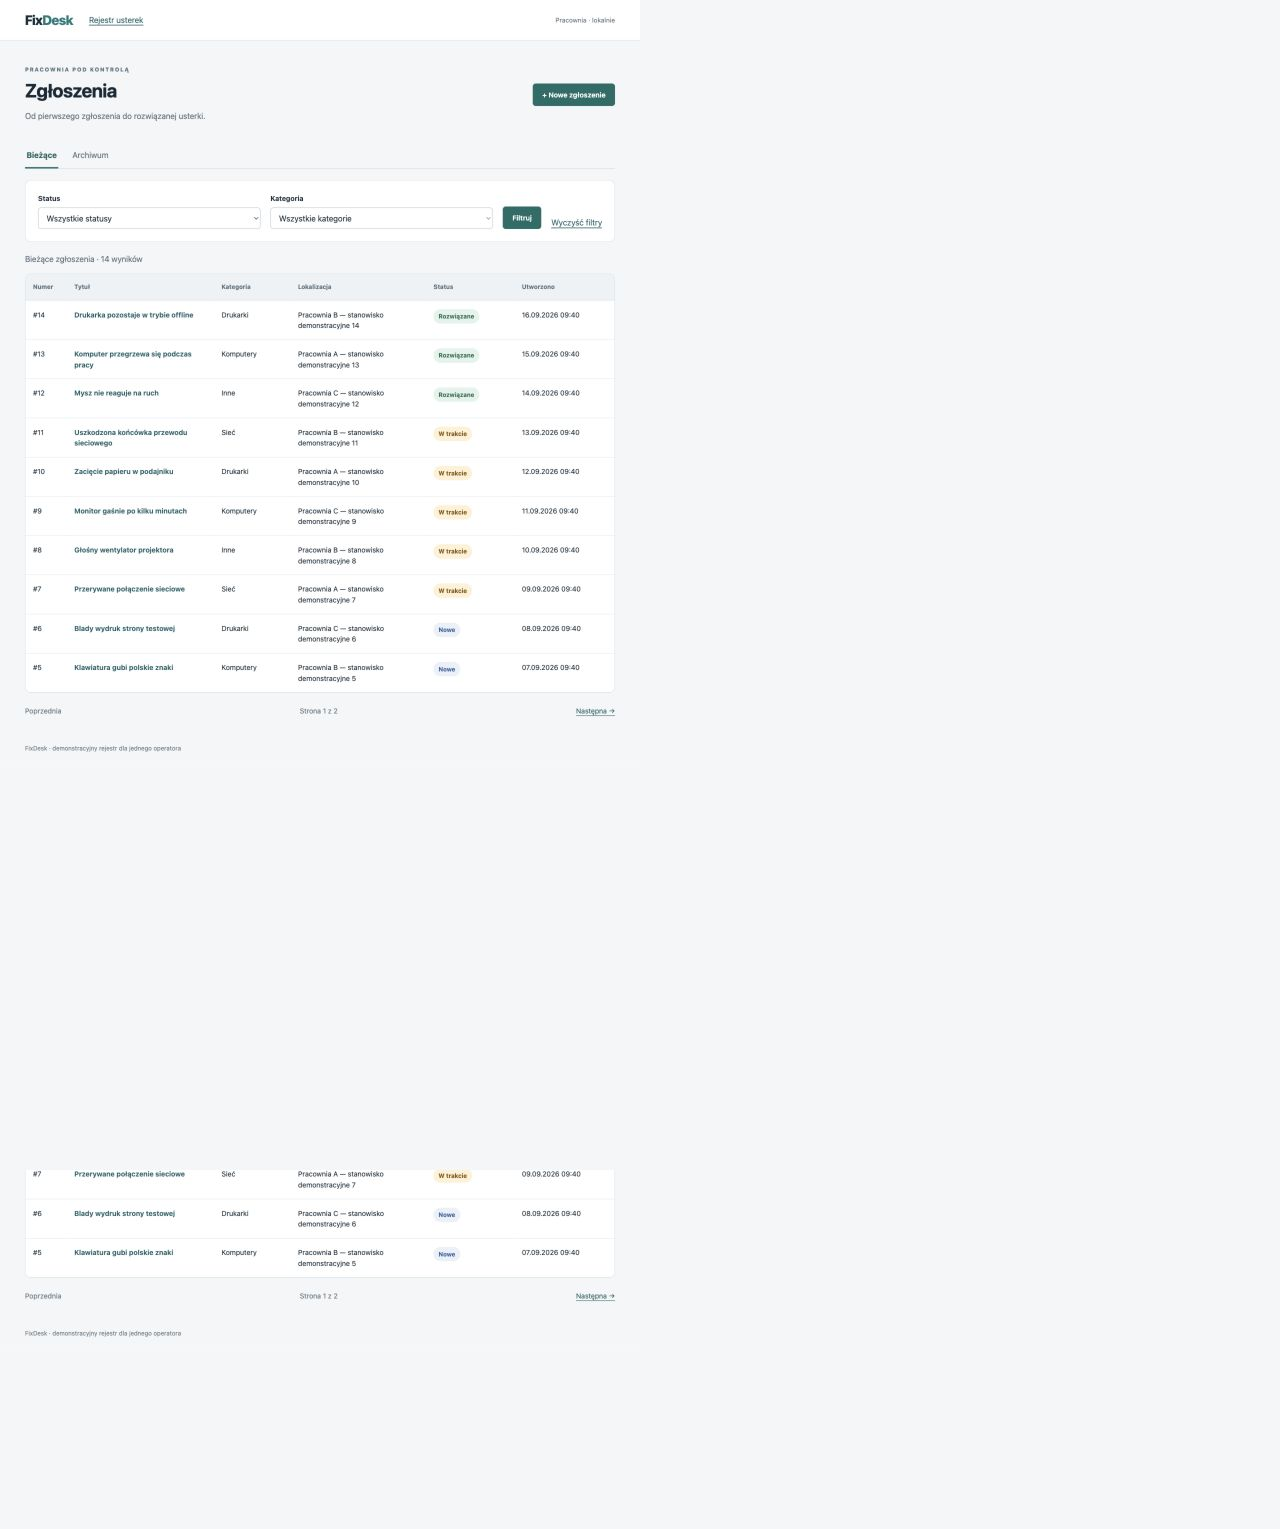
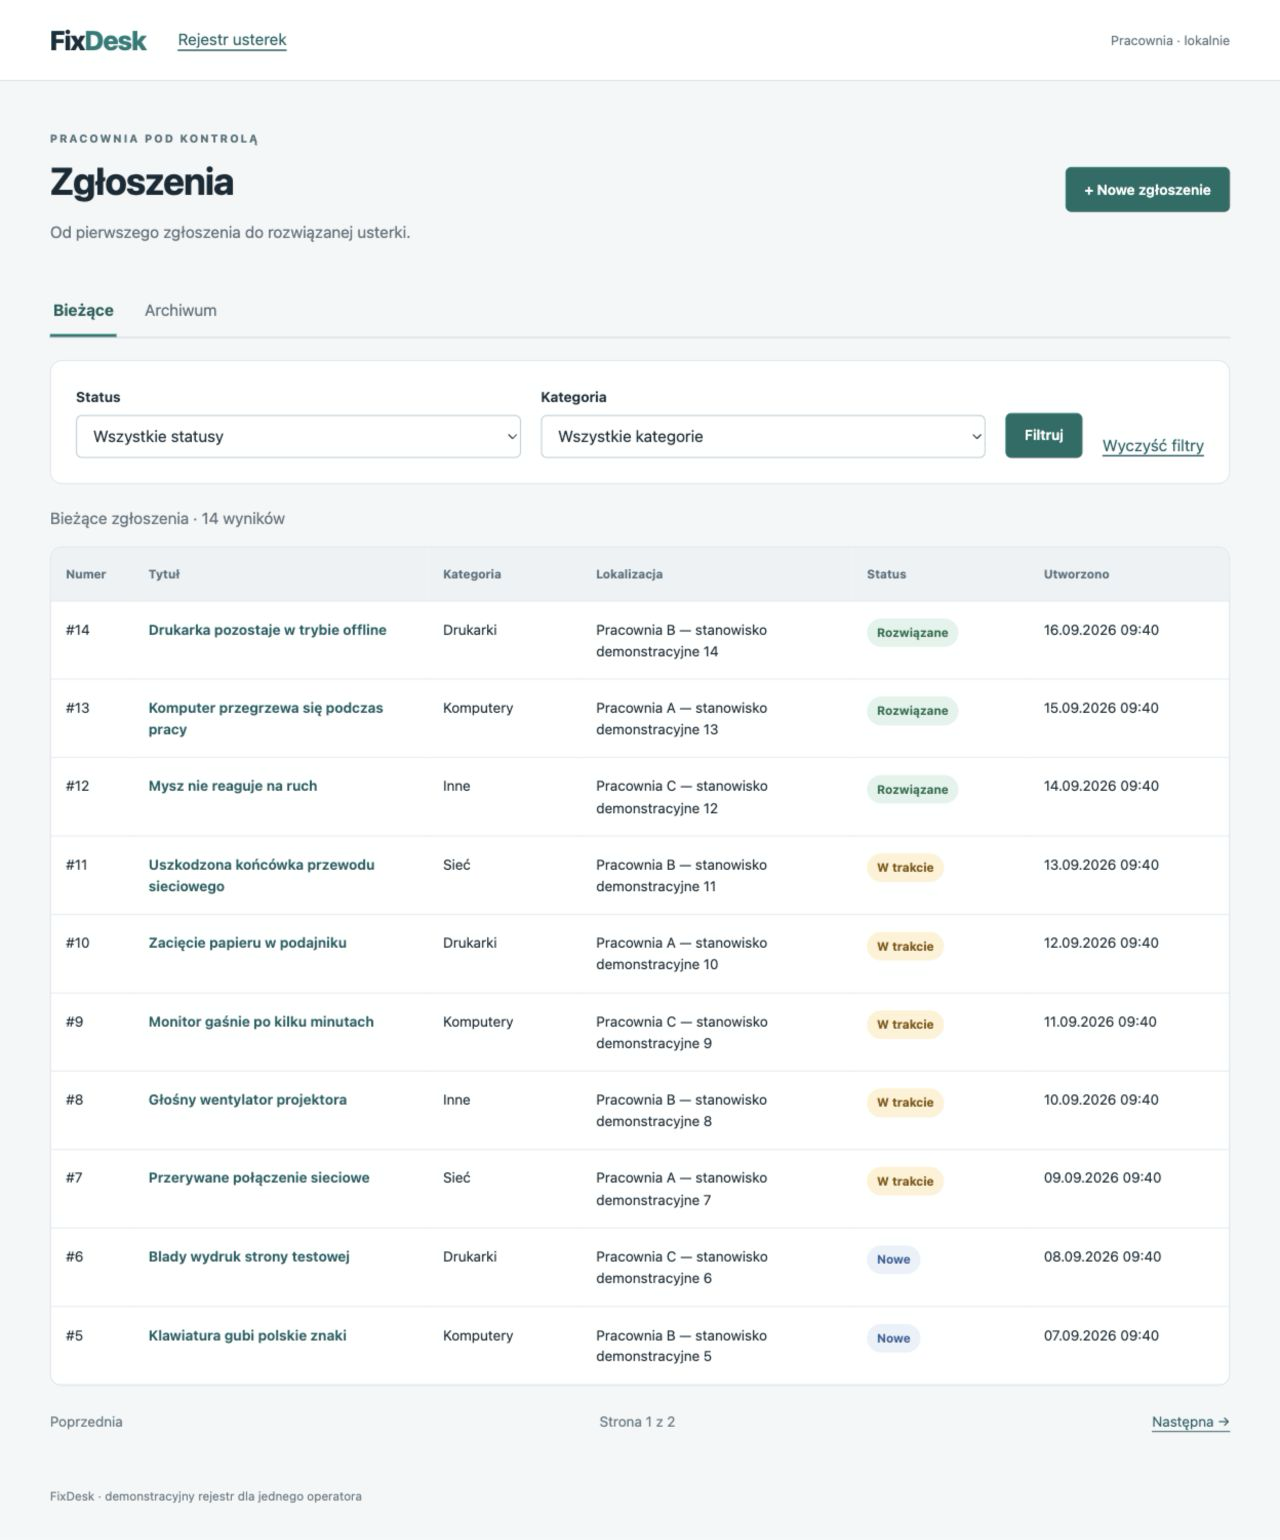
Clean up project documentation and fix screenshots

diff --git a/README.md b/README.md
@@ -1,40 +1,46 @@
 # FixDesk
 
-Niewielki, lokalny rejestr usterek sprzętu dla jednego operatora pracowni komputerowej. Projekt demonstracyjny do nauki PHP/Laravela i rozmowy rekrutacyjnej. Temat i zakres są decyzją autora, nie wymaganiem Fingoweb.
+Lokalny rejestr usterek sprzętu dla jednego operatora pracowni komputerowej.
 
-Proces: **Nowe → W trakcie → Rozwiązane → Archiwizacja**. Rozwiązanie wymaga opisu; archiwizacja zachowuje rekord i umożliwia jego odczyt.
+Proces: **Nowe → W trakcie → Rozwiązane → Archiwizacja**. Rozwiązanie wymaga opisu naprawy. Archiwizacja zachowuje zgłoszenie i udostępnia je do odczytu.
 
-## Zakres
+## Funkcje i zrzuty ekranu
 
-Dodawanie, odczyt, edycja otwartych zgłoszeń, obsługa procesu, dwie listy (bieżące i archiwum), filtry statusu i kategorii połączone AND, paginacja po 10 rekordów, walidacja i polskie komunikaty. Cztery kategorie oraz 16 fikcyjnych zgłoszeń: 6 nowych, 5 w trakcie, 3 rozwiązane bieżące, 2 archiwalne.
+- Dodawanie zgłoszeń, podgląd szczegółów i edycja otwartych zgłoszeń.
+- Rozpoczynanie obsługi, zapisywanie rozwiązania i archiwizacja.
+- Lista bieżąca i archiwum, łączne filtrowanie po statusie i kategorii oraz paginacja po 10 rekordów.
+- Walidacja formularzy i komunikaty po polsku; daty wyświetlane w strefie Europe/Warsaw.
+- Dane demonstracyjne: 4 kategorie i 16 fikcyjnych zgłoszeń, w tym 2 archiwalne.
 
-**Aplikacja lokalna, demonstracyjna, dla jednego operatora. Nie ma uwierzytelniania ani kontroli dostępu między użytkownikami. Nie udostępniać publicznie w tej postaci.** Nie ma usuwania, cofania statusów, przywracania, historii zmian, zarządzania kategoriami ani API. Nie deklaruje bezpiecznej równoczesnej pracy wielu operatorów.
+Lista zgłoszeń:
 
-## Wersje i wymagania
+![Lista zgłoszeń z filtrami i paginacją](docs/screenshots/lista.png)
 
-Sprawdzone: PHP **8.4.25**, Laravel **13.33.0**, MySQL Community **8.4.11**, Composer **2.10.3**, PHPUnit **12.5.35**. `composer.lock` przypina zależności. Projekt wymaga PHP 8.4.x; nie uruchamiaj go domyślnym PHP 8.5 z Homebrew.
+Szczegóły rozwiązanego zgłoszenia:
 
-Rozszerzenia PHP: ctype, curl, dom, fileinfo, filter, hash, mbstring, openssl, pcre, PDO, pdo_mysql, session, tokenizer, xml, xmlwriter; iconv i zip są zalecane. `composer check-platform-reqs` sprawdza wymagania zainstalowanych pakietów. Wymagane zapisywalne `storage/` i `bootstrap/cache/`.
+![Rozwiązane zgłoszenie z opisem usterki i naprawy](docs/screenshots/rozwiazane.png)
 
-Interfejs: Blade + własny `public/css/app.css`, systemowe fonty. **Bez Node.js, npm, Vite, CDN, workera i zewnętrznych usług podczas używania aplikacji.** Sieć jest potrzebna do pierwszego pobrania zależności.
+## Technologie i wymagania
 
-Zgodność stosu: [Laravel 13 — wymagania](https://laravel.com/framework/docs/releases), [MySQL 8.4 LTS](https://dev.mysql.com/doc/refman/8.4/en/mysql-releases.html).
+PHP **8.4.x** (ograniczenie `~8.4.0` w `composer.json`), Composer **2** i MySQL **8.4**. `composer.lock` przypina Laravel **13.33.0** oraz PHPUnit **12.5.35**. Interfejs korzysta z Blade, własnego CSS i systemowych fontów; nie wymaga Node.js ani kompilacji frontendu.
+
+Rozszerzenia PHP: ctype, curl, dom, fileinfo, filter, hash, mbstring, openssl, pcre, PDO, pdo_mysql, session, tokenizer, xml i xmlwriter; iconv i zip są zalecane. Wymagania pakietów sprawdza `composer check-platform-reqs`. Katalogi `storage/` i `bootstrap/cache/` muszą być zapisywalne. Sieć jest potrzebna do pobrania zależności.
 
 ## Pierwsze uruchomienie
 
-1. Zainstaluj PHP 8.4, Composer i MySQL 8.4. Na macOS z Homebrew:
+1. Zainstaluj PHP 8.4, Composer i MySQL 8.4 oraz uruchom serwer MySQL. Na macOS z Homebrew:
 
    ```sh
    brew install php@8.4 composer mysql@8.4
-   export PATH="/opt/homebrew/opt/php@8.4/bin:/opt/homebrew/opt/mysql@8.4/bin:$PATH"
+   export PATH="$(brew --prefix php@8.4)/bin:$(brew --prefix mysql@8.4)/bin:$PATH"
    brew services start mysql@8.4
    php -v
    composer --version
    ```
 
-   Na Macu Intel ścieżki Homebrew zaczynają się zwykle od `/usr/local`. Pozostałe systemy: użyj odpowiednich instalatorów i upewnij się, że `php -v` wskazuje 8.4.
+   Na innych systemach użyj odpowiednich instalatorów. Upewnij się, że `php -v` wskazuje PHP 8.4, także w terminalu używanym do testów.
 
-2. Sklonuj repozytorium:
+2. Pobierz projekt i zależności, a następnie utwórz lokalną konfigurację:
 
    ```sh
    git clone https://github.com/JakubLewosz/FixDesk.git FixDesk
@@ -44,7 +50,7 @@ Zgodność stosu: [Laravel 13 — wymagania](https://laravel.com/framework/docs/
    cp .env.example .env
    ```
 
-3. W kliencie MySQL jako administrator utwórz nowe bazy i lokalne konto. Nie używaj istniejącej bazy zawierającej inne dane. Zastąp przykładowe hasło własnym lokalnym hasłem i nie dodawaj go do Git:
+3. W kliencie MySQL jako administrator utwórz nowe bazy i lokalne konto. Zastąp przykładowe hasło własnym i nie dodawaj go do Git:
 
    ```sql
    CREATE DATABASE fixdesk CHARACTER SET utf8mb4 COLLATE utf8mb4_unicode_ci;
@@ -54,47 +60,59 @@ Zgodność stosu: [Laravel 13 — wymagania](https://laravel.com/framework/docs/
    GRANT ALL PRIVILEGES ON fixdesk_test.* TO 'fixdesk'@'127.0.0.1';
    ```
 
-4. W `.env` ustaw `DB_HOST=127.0.0.1`, port swojego serwera (zwykle `3306`), `DB_DATABASE=fixdesk`, użytkownika i hasło. Pozostaw `SESSION_DRIVER=file`, `CACHE_STORE=file`, `QUEUE_CONNECTION=sync`, `APP_DEBUG=false`. Plik przykładowy nie zawiera hasła ani klucza.
+4. W `.env` ustaw `DB_HOST=127.0.0.1`, port swojego serwera (domyślnie `3306`), `DB_DATABASE=fixdesk` oraz nazwę użytkownika i hasło. Pozostaw `SESSION_DRIVER=file`, `CACHE_STORE=file`, `QUEUE_CONNECTION=sync` i `APP_DEBUG=false`.
 
-5. Wygeneruj klucz i sprawdź nazwę bazy **przed** migracją:
+5. Wygeneruj klucz i sprawdź bazę przed migracją:
 
    ```sh
    php artisan key:generate
    php artisan config:clear
    php artisan db:show
-   # Sprawdź, że połączenie to mysql, baza fixdesk.
+   ```
+
+   Po potwierdzeniu połączenia `mysql` i bazy `fixdesk` utwórz tabele, wczytaj dane demonstracyjne i uruchom serwer:
+
+   ```sh
    php artisan migrate
    php artisan db:seed
    php artisan serve --host=127.0.0.1 --port=8000
    ```
 
-   Otwórz [FixDesk lokalnie](http://127.0.0.1:8000). Seeder jest jawny; nie uruchamia się przy wejściu na stronę. Powtórne `db:seed` uzupełnia brakujące kategorie, ale jeśli istnieją zgłoszenia, nie dodaje ponownie demonstracyjnych rekordów.
+   Otwórz [FixDesk lokalnie](http://127.0.0.1:8000). Seeder działa tylko na jawne polecenie. Ponowne `db:seed` uzupełnia brakujące kategorie, ale nie dodaje ponownie zgłoszeń demonstracyjnych, jeśli istnieją już jakiekolwiek zgłoszenia.
 
-## Ponowny start
+## Ponowne uruchomienie
 
-Uruchom MySQL, wejdź do katalogu projektu i wykonaj:
+Uruchom MySQL i w katalogu projektu, z PHP 8.4 w `PATH`, wykonaj:
 
 ```sh
 php artisan serve --host=127.0.0.1 --port=8000
 ```
 
-Nie generuj ponownie klucza, nie uruchamiaj resetu bazy ani seedera przy każdym starcie. Po zmianie `.env` wykonaj `php artisan config:clear`.
+Nie generuj ponownie klucza ani nie resetuj bazy. Migracje i seeder nie są potrzebne przy każdym starcie. Po zmianie `.env` wykonaj `php artisan config:clear`. Serwer aplikacji zatrzymasz przez Ctrl+C.
 
-Opcjonalny **reset wyłącznie własnych danych demonstracyjnych**: `php artisan migrate:fresh --seed`. To polecenie **usuwa wszystkie tabele i dane aktywnej bazy**, a następnie odtwarza schemat. Nie jest normalnym poleceniem startowym. Przed użyciem sprawdź bazę przez `php artisan db:show` i wykonaj potrzebną kopię zapasową.
+## Testy
 
-## Testy — osobna baza MySQL
+Testy wymagają oddzielnej bazy MySQL **fixdesk_test**, utworzonej podczas instalacji. Przy pierwszej konfiguracji testów:
 
 ```sh
 cp .env.testing.example .env.testing
-# Wpisz port, użytkownika i hasło; DB_DATABASE musi być fixdesk_test.
+```
+
+W `.env.testing` ustaw port, użytkownika i hasło do MySQL. Zachowaj `APP_ENV=testing`, `DB_CONNECTION=mysql` i `DB_DATABASE=fixdesk_test`, a następnie wykonaj:
+
+```sh
 php artisan key:generate --env=testing
 php artisan config:clear
 php artisan db:show --env=testing
-# Sprawdź: mysql / fixdesk_test, nigdy fixdesk.
+```
+
+Po potwierdzeniu połączenia `mysql` i bazy `fixdesk_test` uruchom:
+
+```sh
 php artisan test
 ```
 
-Testy używają `RefreshDatabase` i faktycznych zapisów MySQL. **Baza fixdesk_test musi być przeznaczona wyłącznie na testy; jej dane mogą zostać usunięte.** `tests/TestCase.php` przed uruchomieniem traitów sprawdza środowisko, brak cache konfiguracji, sterownik, skonfigurowaną nazwę i wynik `SELECT DATABASE()`. Przy innej bazie przerywa przygotowanie przed `migrate:fresh`. Nie ma SQLite ani haseł w `phpunit.xml`.
+**Testy mogą usuwać dane z fixdesk_test — przeznacz tę bazę wyłącznie na testy.** Zabezpieczenie w `tests/TestCase.php` sprawdza środowisko, brak cache konfiguracji, sterownik oraz skonfigurowaną i rzeczywistą nazwę bazy przed uruchomieniem `RefreshDatabase`. Kolejne uruchomienia wymagają tylko działającego MySQL i `php artisan test`.
 
 Dodatkowe sprawdzenia:
 
@@ -102,57 +120,22 @@ Dodatkowe sprawdzenia:
 composer validate --strict
 composer check-platform-reqs
 vendor/bin/pint --test
-php artisan view:cache
-php artisan view:clear
 ```
 
-Wyniki rzeczywistych sprawdzeń oraz szczegóły lokalnego środowiska: [docs/verification.md](docs/verification.md).
+## Przykładowe użycie
 
-## Jak działa kod
+1. Na liście wybierz **+ Nowe zgłoszenie**, wypełnij tytuł, kategorię, lokalizację i opis usterki, a następnie zapisz.
+2. W szczegółach możesz poprawić otwarte zgłoszenie przez **Edytuj**. Wybierz **Rozpocznij obsługę**, aby przejść do statusu **W trakcie**.
+3. Wpisz opis naprawy (10–2000 znaków) i wybierz **Zapisz rozwiązanie**. Szczegóły pokażą opis oraz datę rozwiązania.
+4. Wybierz **Archiwizuj**. Zgłoszenie znajdziesz w zakładce **Archiwum**, gdzie pozostaje dostępne do odczytu.
+5. Na liście użyj filtrów statusu i kategorii oraz przycisku **Filtruj**. Przy większej liczbie wyników przechodź między stronami, zachowując wybrane filtry.
 
-- `routes/web.php` — nazwane trasy, numeryczny identyfikator, route model binding i rzeczywiste 404.
-- `app/Http/Controllers/TicketController.php` — zapytanie listy, eager loading kategorii, widoki i przekierowania.
-- `app/Http/Requests/SaveTicketRequest.php`, `ResolveTicketRequest.php` — walidacja. Domyślne middleware Laravela przycina białe znaki i zamienia puste teksty na NULL przed walidacją.
-- `app/Services/TicketWorkflow.php` — dopuszczalność działań i zapisy procesu. Odświeża stan przed operacją; nie stosuje blokad i nie obiecuje odporności na równoczesne zapisy.
-- `app/Enums/TicketStatus.php` — jeden string-backed enum z polskimi etykietami; w MySQL zwykły string.
-- `app/Models/` — relacje i casty; `database/migrations/` — dwie tabele domenowe oraz standardowa tabela migracji.
-- `resources/views/` — Blade, współdzielony formularz, błędy 404/419/500 i własna paginacja.
-- `tests/Feature/TicketTest.php` — zachowania HTTP, sesji i zapisanych danych.
+## Ograniczenia
 
-Czas zapisujemy w **UTC**, a wyświetlamy w **Europe/Warsaw**, z uwzględnieniem czasu letniego. `archived_at` jest niezależne od statusu: rozwiązane zgłoszenie pozostaje na bieżącej liście aż do archiwizacji. Stan rozwiązania zapisuje jeden SQL UPDATE. Niedozwolony proces zgłasza `DomainException`, obsługiwany w `bootstrap/app.php`; błędy bazy nie są przechwytywane jako sukces.
+Aplikacja jest **lokalnym demo dla jednego operatora**, bez uwierzytelniania i kontroli dostępu między użytkownikami. **Nie powinna być publicznie udostępniana w obecnej postaci.** Nie jest wdrożeniem produkcyjnym i nie przeszła zewnętrznego audytu bezpieczeństwa.
 
-Parametry listy to `view`, `status`, `category_id`, `page`. Puste filtry nie ograniczają wyników; niepoprawne parametry czyszczą wszystkie filtry i wracają do bieżącej listy. Zmiana widoku zeruje filtry, formularz filtrów pomija stronę, a paginacja zachowuje zastosowane filtry. Sortowanie: najnowsze `created_at`, następnie najwyższe `id`.
-
-Poprawny numer strony przekraczający zakres wyników przekierowuje na ostatnią dostępną stronę, z zachowaniem zwalidowanego widoku i filtrów. Przy braku wyników i `page > 1` następuje jedno przekierowanie na stronę 1, która zwraca HTTP 200 i pokazuje pustą listę bieżącą, puste archiwum lub brak wyników filtrowania. Przykład: 14 bieżących zgłoszeń i `/tickets?page=999` → strona 2 z 4 zgłoszeniami.
-
-## Scenariusz ręczny
-
-1. Dodaj zgłoszenie, używając polskich znaków i wielowierszowego opisu.
-2. Edytuj tytuł i sprawdź, że status nadal jest Nowe.
-3. Rozpocznij obsługę — status W trakcie.
-4. Spróbuj zapisać puste rozwiązanie. Przeglądarka blokuje pusty formularz; same spacje przechodzą jej kontrolę długości i pozwalają zobaczyć polski błąd serwera.
-5. Wpisz opis naprawy (10–2000 znaków) i zapisz. Sprawdź opis i datę rozwiązania.
-6. Spróbuj wejść na `/tickets/NUMER/edit` — powinno przekierować z wyjaśnieniem.
-7. Archiwizuj; znajdź zgłoszenie w Archiwum i odczytaj szczegóły.
-8. Sprawdź dwa filtry razem, drugą stronę listy oraz `page=999` z wynikami i bez dopasowań. Sprawdź również archiwum i nieistniejący numer zgłoszenia.
-
-## Bezpieczeństwo i granice
-
-Formularze mają `@csrf`, edycja także `@method('PATCH')`; brak mutacji przez GET. Blade escapuje dane, zachowując nowe linie przez CSS. HTML jest zwykłym tekstem. Eloquent wiąże parametry, a zapis formularza używa tylko `validated()` i czterech dozwolonych pól. Dosłane statusy i daty są ignorowane. Klucz obcy blokuje usunięcie używanej kategorii i przypisanie nieistniejącej. `.gitignore` wyłącza środowisko, logi, zależności i zrzuty SQL.
-
-Laravel 13 używa middleware `PreventRequestForgery`: akceptuje wiarygodne `Sec-Fetch-Site: same-origin` albo pasujący token sesji. Zwykłe testy Feature pomijają tę kontrolę; podczas pierwotnej weryfikacji wykonano oddzielny sprawdzian przez rzeczywiste HTTP, opisany w [raporcie](docs/verification.md). Błąd bez tokena/z błędnym tokenem i bez prawidłowego pochodzenia daje 419. Nie wyłączono middleware ani nie dodano wyjątków CSRF.
-
-Projekt nie przeszedł zewnętrznego audytu i nie jest wdrożeniem produkcyjnym.
-
-## Zrzuty ekranu
-
-Autentyczne zrzuty lokalnie działającej aplikacji:
-
-![Lista zgłoszeń](docs/screenshots/lista.png)
-![Rozwiązane zgłoszenie](docs/screenshots/rozwiazane.png)
-
-[Notatka do nauki i ćwiczenie](docs/learning-notes.md).
+Nie obsługuje usuwania zgłoszeń, cofania statusów, przywracania z archiwum, historii zmian, zarządzania kategoriami ani API. Nie zapewnia bezpiecznej równoczesnej pracy wielu operatorów. Rozwiązane i archiwalne zgłoszenia nie podlegają edycji.
 
 ## Wykorzystanie AI
 
-Codex został wykorzystany do wygenerowania implementacji, testów i dokumentacji oraz wprowadzenia poprawek. Zakres wykonanych sprawdzeń i ich ograniczenia opisano w [docs/verification.md](docs/verification.md). Weryfikacja narzędziowa nie stanowi potwierdzenia osobistego przeglądu kodu przez autora.
+Do wygenerowania implementacji, testów i dokumentacji oraz wprowadzania poprawek wykorzystano Codex.
